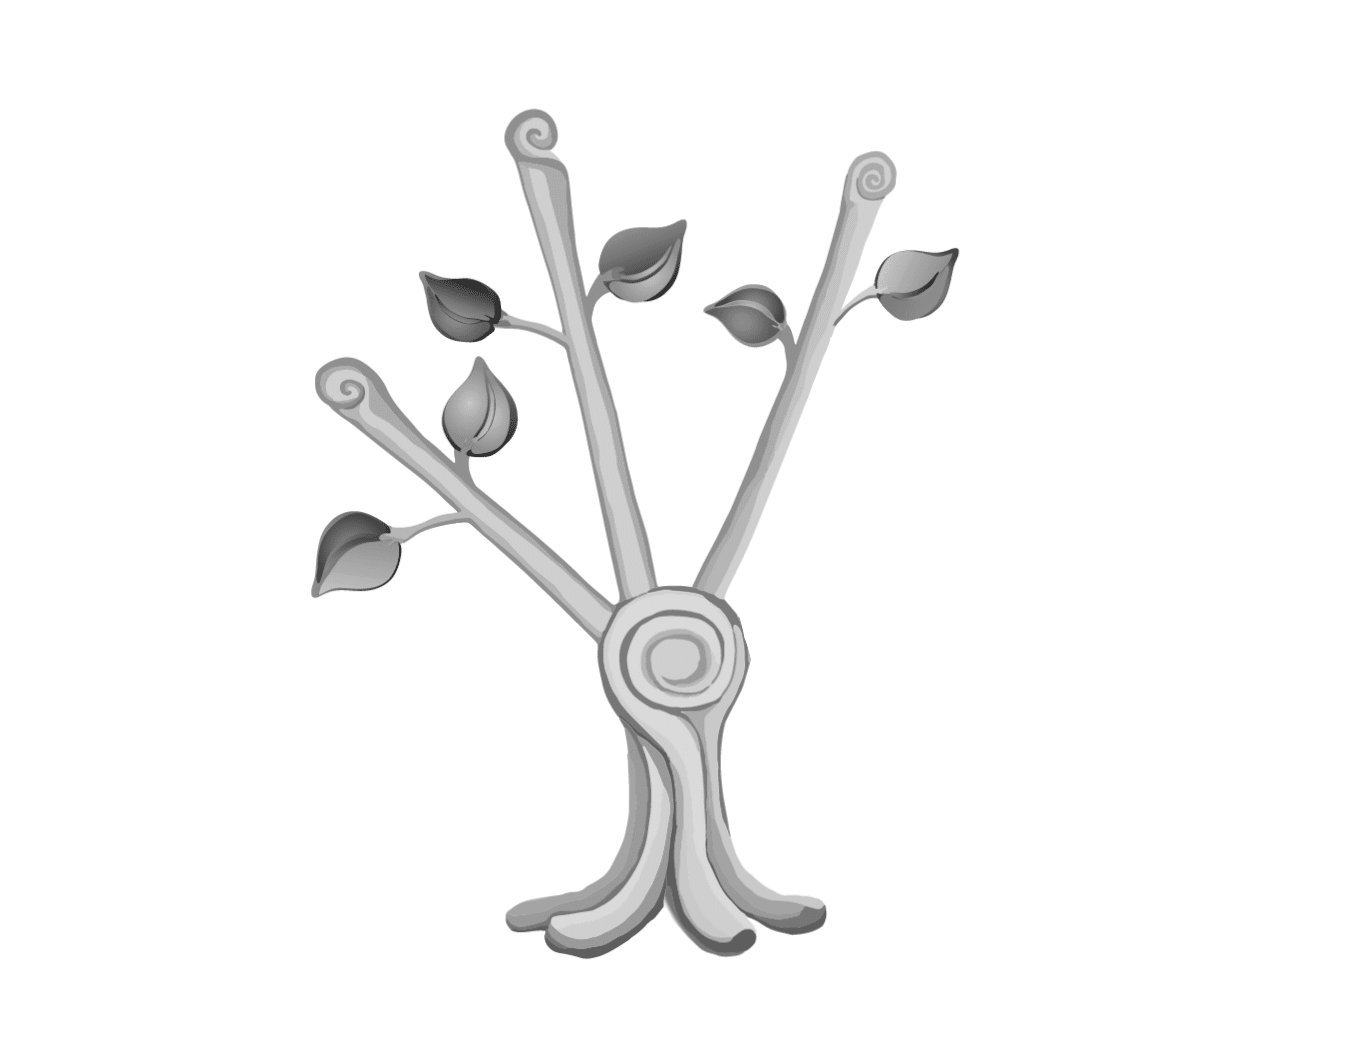
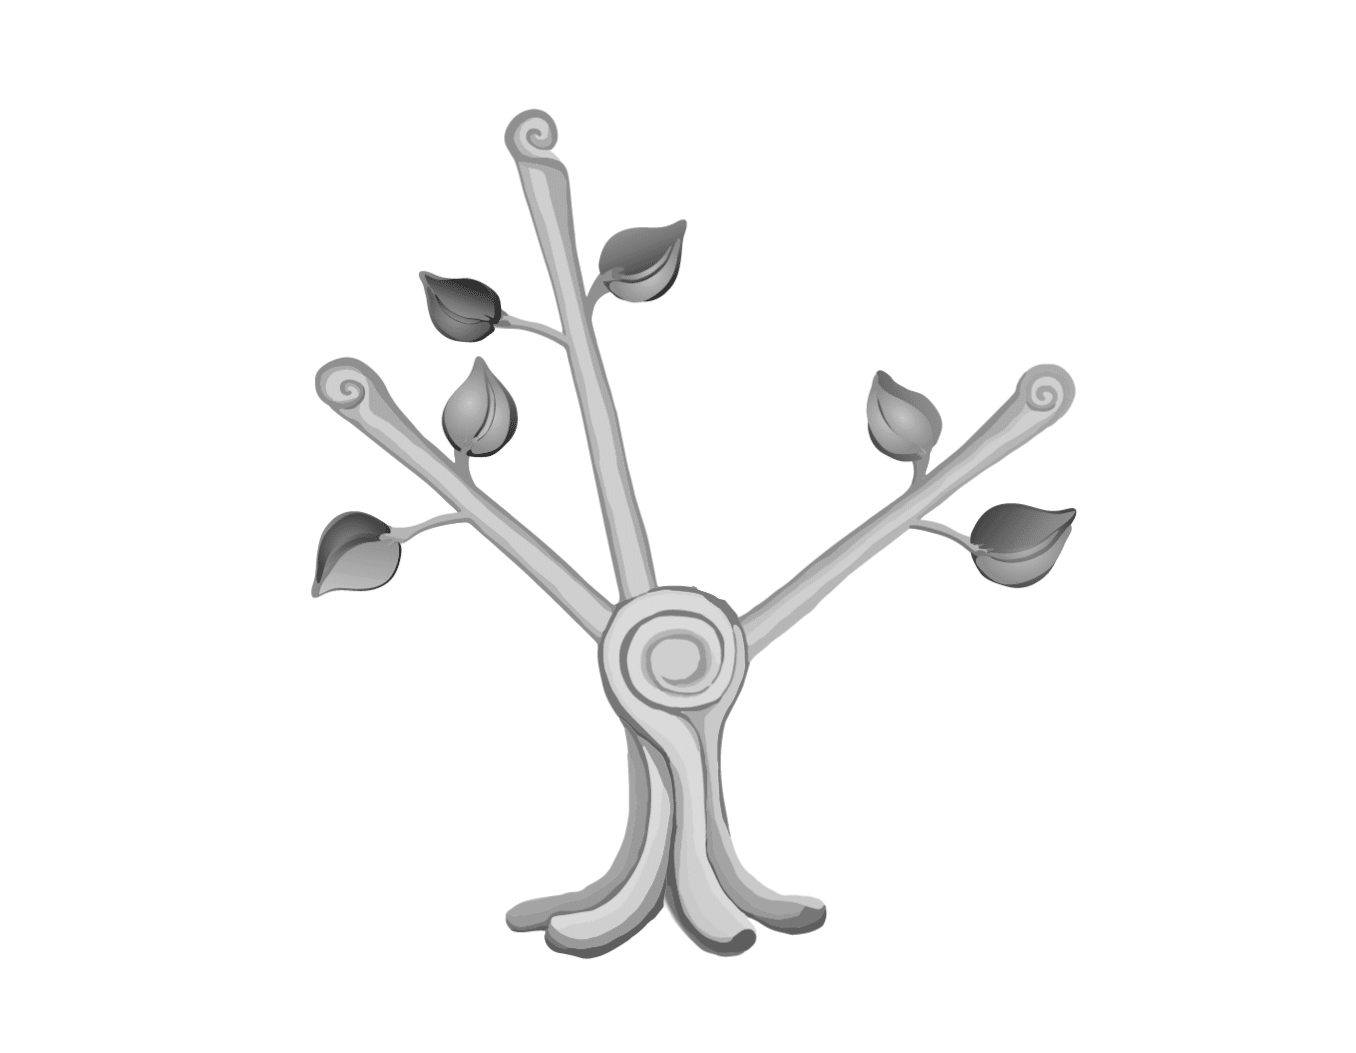
Add new logic to create bp tree(W.I.P) and change last avatares into achievements

Changed region(s): [[0.4956, 0.1216, 0.8053, 0.6382]]

diff --git a/app/scripts/services/tree-service.js b/app/scripts/services/tree-service.js
@@ -8,7 +8,8 @@
   function TreeService($http, ENV, PopupService) {
     var service = {
       getNeuronsUser: getNeuronsUser,
-      progressTree: progressTree
+      progressTree: progressTree,
+      getMockDataToHidenBranch: getMockDataToHidenBranch
     };
     var popupOptions = { title: 'Error'};
 
@@ -142,6 +143,56 @@
     function percentageLevel(min, diff, percentage) {
       var finalValue = ((percentage-min) * 100)/diff;
       return parseFloat(finalValue.toFixed(1));
+    }
+
+    function getMockDataToHidenBranch() {
+      var mockBranch = {
+        'id': 8,
+        'parent_id': 1,
+        'is_public': true,
+        'active': true,
+        'deleted': false,
+        'state': 'florecida',//second level
+        'children': [
+          {
+            'id': 5,
+            'parent_id': 8,
+            'is_public': true,
+            'active': true,
+            'deleted': false,
+            'state': 'florecida',//third level
+            'children': [
+              {
+                'id': 15,
+                'parent_id': 5,
+                'is_public': true,
+                'active': true,
+                'deleted': false,
+                'state': 'florecida',//fourth level
+                'children': [
+                  {
+                    'id': 121,
+                    'parent_id': 15,
+                    'is_public': true,
+                    'active': true,
+                    'deleted': false,
+                    'state': 'florecida',//fifth level
+                  }
+                ]
+              },
+              {
+                'id': 6,
+                'parent_id': 5,
+                'is_public': true,
+                'active': true,
+                'deleted': false,
+                'state': 'florecida',//fourth level
+              }
+            ]
+          }
+        ]
+      };
+      return mockBranch;
     }
   }
 })();

diff --git a/app/scripts/services/neuron-animate-service.js b/app/scripts/services/neuron-animate-service.js
@@ -38,16 +38,18 @@
 
       function addAnimateClass(randomPosition, isTheLastItem) {
         var $neuronElement = discoveredNeurons[randomPosition];
-        var $neuronToAnimate = $neuronElement.find('img');
-        MoiAnimationService.animateWidget($neuronToAnimate, 'swing').then(function(){
-          if(isTheLastItem){
-            $timeout(function() {
-              if(!service.stopCallToAction){
-                callToAction();
-              }
-            }, 1500);
-          }
-        });
+        if($neuronElement) {
+          var $neuronToAnimate = $neuronElement.find('img');
+          MoiAnimationService.animateWidget($neuronToAnimate, 'swing').then(function(){
+            if(isTheLastItem){
+              $timeout(function() {
+                if(!service.stopCallToAction){
+                  callToAction();
+                }
+              }, 1500);
+            }
+          });
+        }
       }
 
       function specialCallToAction(){

diff --git a/app/scripts/values/media_achievements.js b/app/scripts/values/media_achievements.js
@@ -64,7 +64,7 @@
           description: 'Han sido completados 4 test sin errores',
           settings: {
             badge:'images/inventory/badges/badge5.png',
-            avatar: 'images/avatar/avatar_8.png'
+            avatar: 'images/avatar/placegolder_perfil_7.png'
           }
         },
         9: {
@@ -72,7 +72,7 @@
           description: 'Han sido desplegados 8 test sin errores',
           settings: {
             badge:'images/inventory/badges/badge6.png',
-            avatar: 'images/avatar/avatar_7.png'
+            avatar: 'images/avatar/placegolder_perfil_8.png'
           }
         },
         10: {

diff --git a/app/scripts/values/media_achievements-en.js b/app/scripts/values/media_achievements-en.js
@@ -64,7 +64,7 @@
           description: 'Completed 4 tests without making mistakes',
           settings: {
             badge:'images/inventory/badges/badge5.png',
-            avatar: 'images/avatar/avatar_8.png'
+            avatar: 'images/avatar/placegolder_perfil_7.png'
           }
         },
         9: {
@@ -72,7 +72,7 @@
           description: 'You deployed at least 50 total tests',
           settings: {
             badge:'images/inventory/badges/badge6.png',
-            avatar: 'images/avatar/avatar_7.png'
+            avatar: 'images/avatar/placegolder_perfil_8.png'
           }
         },
         10: {

diff --git a/test/unit/controllers/tree-controller-spec.js b/test/unit/controllers/tree-controller-spec.js
@@ -58,6 +58,9 @@
               'userLevel': 10,
               'pointPosition': 9
             };
+          },
+          getMockDataToHidenBranch: function() {
+            return {};
           }
         };
       });
@@ -127,7 +130,7 @@
         };
         dependencies = {
           $scope: $scope,
-          data: {tree: {root: {in_desired_neuron_path: false}}, meta:{depth:4}},
+          data: {tree: {root: {in_desired_neuron_path: false, children:[]}}, meta:{depth:4}},
           storage: {tree: {'vinetas_animadas': {'depth': 1}}},
           $auth: $auth,
           ModalService: ModalService,

diff --git a/app/styles/tree/tree-level-5.scss b/app/styles/tree/tree-level-5.scss
@@ -167,7 +167,7 @@
             bottom: 41.94%;
             left: 46.87%;
           }
-          &-1023{
+          &-1001{
             bottom: 41.25%;
             left: 43.35%;
           }
@@ -463,7 +463,7 @@
               background-image: url(../images/tree/branchs/level-5/rama038.png);
             }
           }
-          &-1023{
+          &-1001{
             &.florecida{
               background-image: url(../images/tree/branchs/level-5/rama037.png);
             }

diff --git a/app/scripts/controllers/tree/tree-controller.js b/app/scripts/controllers/tree/tree-controller.js
@@ -21,6 +21,10 @@
                                           ) {
 
     var treeModel = this;
+    if(data.meta.depth > 1) {
+      //Add hiden branch
+      data.tree.root.children.splice(2, 0, TreeService.getMockDataToHidenBranch());
+    }
     treeModel.neurons = data.tree;
     treeModel.meta = data.meta;
     var progressTree = TreeService.progressTree(treeModel.meta);

diff --git a/app/scripts/values/neurons-options.js b/app/scripts/values/neurons-options.js
@@ -120,7 +120,7 @@
       'fifth-level-1025': {
         color: 'green'
       },
-      'fifth-level-1023': {
+      'fifth-level-1001': {
         color: 'green'
       },
       'fifth-level-1022': {
